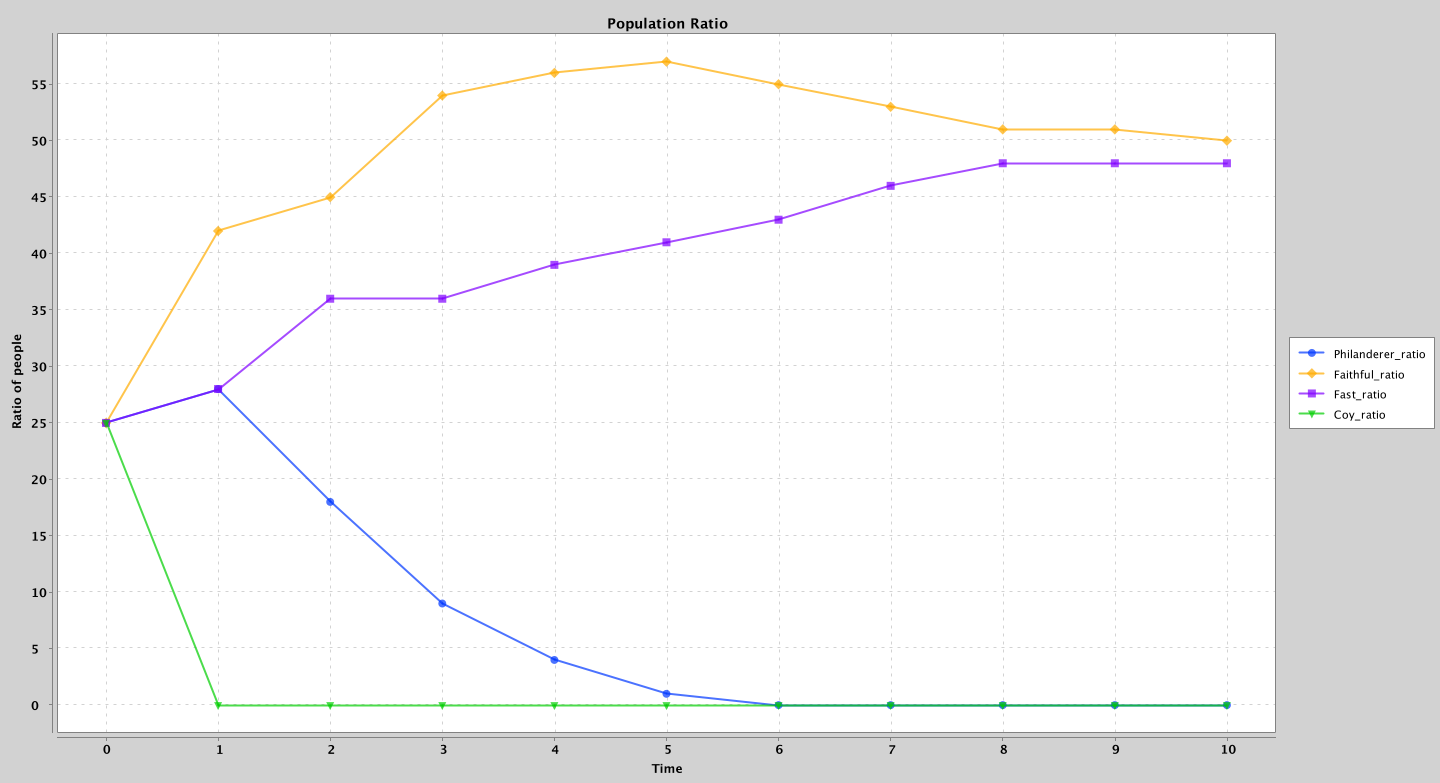
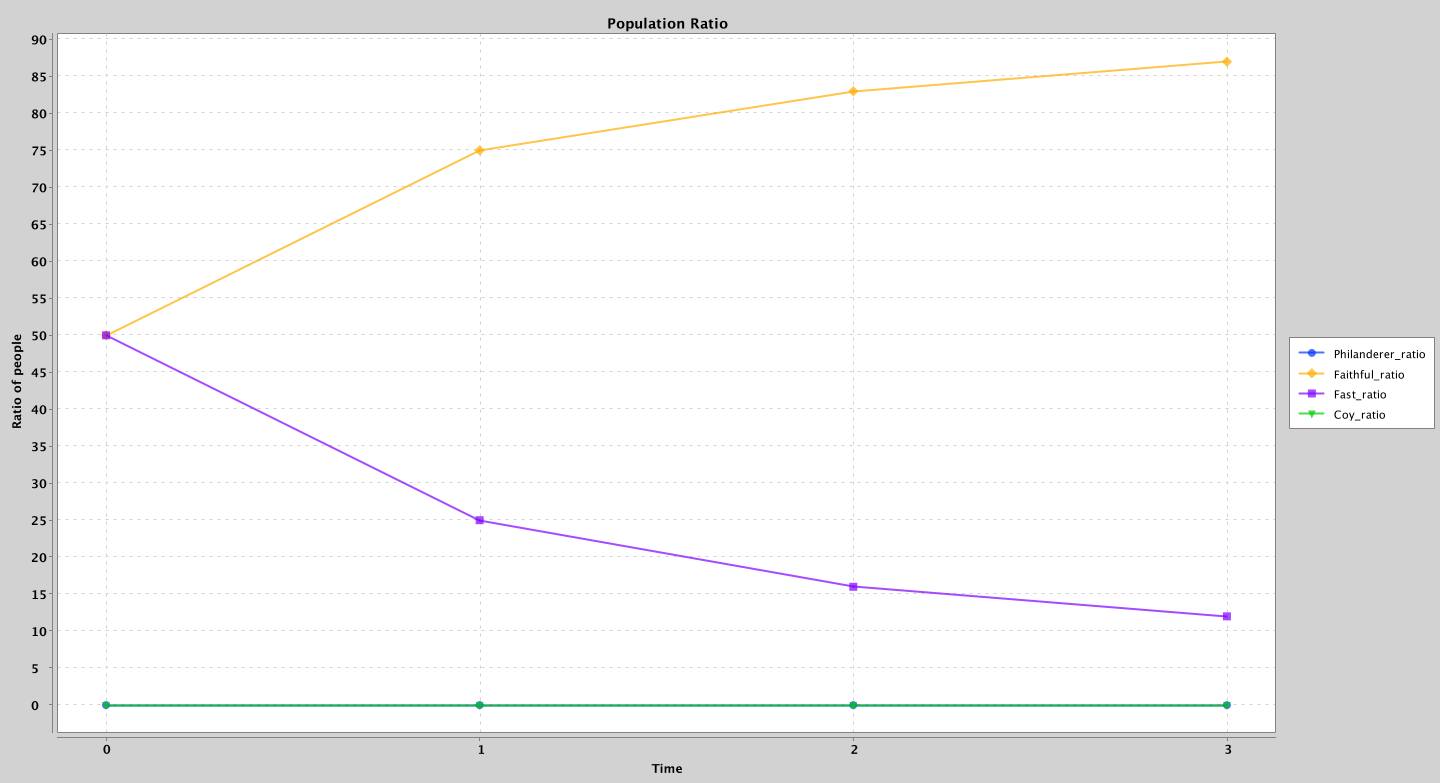
code reordering e tolto while della notte

diff --git a/src/Main.java b/src/Main.java
@@ -13,15 +13,16 @@ public class Main {
 
     public static void main(String[] args) throws InterruptedException, IOException {
 
-        Population p = new Population(1,1,1,1);
+        Population p = new Population(0,1,1,0);
         Population.printMalesFemalesTot(); // initial condition
         Population.updateGraph(0); // graph at time zero
 
         int i = 0;
-        while (i < 10) {
+        while (i < 3) {
             i++;
             Time.dayTime(50); // true
             Time.nightTime(i); // false
+            Population.printMalesFemalesTot();
         }
         Main.untilEquilibriumReached = false;
 

diff --git a/src/Female.java b/src/Female.java
@@ -18,8 +18,10 @@ public class Female extends Individual{
                 try {
                     wait();
                     if (this.points < 1) {
-                         Population.numberIndividuals[this.type]--;
-                         return;
+                        synchronized (Population.numberIndividuals) {
+                            Population.numberIndividuals[this.type]--;
+                        }
+                        return;
                     }
                     sleep(25); // troppo irrequieti
                 } catch (InterruptedException dying) {}

diff --git a/src/Male.java b/src/Male.java
@@ -18,7 +18,9 @@ public class Male extends Individual{
                     Female myGirl = Population.club.pop();
                     myGirl.giveBirth(this);
                     if (this.points < 1) {
-                        Population.numberIndividuals[this.type]--;
+                        synchronized (Population.numberIndividuals) {
+                            Population.numberIndividuals[this.type]--;
+                        }
                         return;
                     }
                     sleep(25); // troppo irrequieti

diff --git a/src/Individual.java b/src/Individual.java
@@ -8,7 +8,9 @@ public class Individual extends Thread {
      */
 
     protected int type;
-    protected int points = 4;      //initial points
+    protected int points = 4;   //initial points
+    protected volatile int numberChildren = 0;
+    protected static int maxChildren = 2; // todo until Equilibrium is reached
 
     protected static final int a = 15;     //benefit of having a baby
     protected static final int b = 20;     //cost of having a baby !!always even!!

diff --git a/src/Coy.java b/src/Coy.java
@@ -21,7 +21,7 @@ public class Coy extends Female {
             gentleman.points += (a-b/2-c);
             this.points += (a-b/2-c);
 
-            if(random.nextBoolean()){
+            if(false){
                 Coy ind = new Coy();
                 ind.start();
             }

diff --git a/src/Fast.java b/src/Fast.java
@@ -45,6 +45,7 @@ public class Fast extends Female {
                 ind.start();
             }
         }
+
         this.notify();
     }
 }
